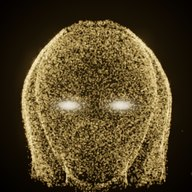
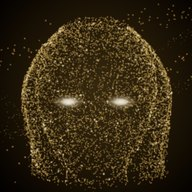
Particle face, more epic: fewer crisper dots, twinkling sparkles, lens flares on the eyes, orbiting gold dust and soft falling light

diff --git a/app/src/main/assets/www/index.html b/app/src/main/assets/www/index.html
@@ -258,6 +258,12 @@ function makeGlowTexture(size = 256) {
   const t = new THREE.CanvasTexture(c); t.colorSpace = THREE.SRGBColorSpace; return t;
 }
 const glowTex = makeGlowTexture();
+const flareTex = (() => { const c = document.createElement('canvas'); c.width = 256; c.height = 32; const g = c.getContext('2d');
+  const h = g.createLinearGradient(0, 0, 256, 0); h.addColorStop(0, 'rgba(255,200,120,0)'); h.addColorStop(0.5, 'rgba(255,240,210,1)'); h.addColorStop(1, 'rgba(255,200,120,0)');
+  g.fillStyle = h; g.fillRect(0, 15, 256, 2); return new THREE.CanvasTexture(c); })();
+const rayTex = (() => { const c = document.createElement('canvas'); c.width = 64; c.height = 64; const g = c.getContext('2d');   // soft on every side; the sprite stretches it tall
+  const v = g.createRadialGradient(32, 32, 0, 32, 32, 32); v.addColorStop(0, 'rgba(255,225,170,1)'); v.addColorStop(1, 'rgba(255,200,120,0)');
+  g.fillStyle = v; g.fillRect(0, 0, 64, 64); return new THREE.CanvasTexture(c); })();
 
 scene.add(new THREE.AmbientLight(0xffffff, 0.55));
 const keyLight = new THREE.DirectionalLight(0xfff2e0, 2.2); keyLight.position.set(3, 7, 6); scene.add(keyLight);
@@ -325,7 +331,7 @@ function disposeAvatar(model) {
     }
   });
 }
-let particleFaceMaterial = null;
+let particleFaceMaterial = null, particleFx = null;   // particleFx: the sparkles, orbiting dust and light streaks around the face
 function applyAvatarAlpha(a) {
   if (!avatarModel) return;
   const wantsAlpha = a < 0.995;
@@ -388,7 +394,7 @@ function makeGoldenParticleFace(model) {
   // a human head: fuller at the temples and cranium, slimming down to the jaw and chin
   const cx = head ? head.cx || 0 : 0, widen = y => { if (!head) return 1; const t = Math.min(1, Math.max(0, (y - head.neck) / (head.top - head.neck)));
     const k = Math.min(1, Math.max(0, (t - 0.12) / 0.5)); return 0.94 + 0.18 * k * k * (3 - 2 * k); };
-  const count = 28000, points = new Float32Array(count * 3);
+  const count = 9000, points = new Float32Array(count * 3);   // fewer, crisper dots: the face reads as light, not sand
   for (let i = 0; i < count; i++) {
     const target = Math.random() * totalArea;
     let lo = 0, hi = cumulative.length - 1;
@@ -402,7 +408,7 @@ function makeGoldenParticleFace(model) {
   const geo = new THREE.BufferGeometry();
   geo.setAttribute('position', new THREE.BufferAttribute(points, 3));
   particleFaceMaterial = new THREE.PointsMaterial({
-    color: 0xffd783, size: 0.018, map: glowTex, transparent: true, opacity: 1,   // applyAvatarAlpha fades it from this base
+    color: 0xffd783, size: 0.016, map: glowTex, transparent: true, opacity: 1,   // applyAvatarAlpha fades it from this base
     blending: THREE.AdditiveBlending, depthWrite: false, sizeAttenuation: true
   });
   const cloud = new THREE.Points(geo, particleFaceMaterial);
@@ -413,9 +419,38 @@ function makeGoldenParticleFace(model) {
     const eb = new THREE.Box3(); eyeMeshes.forEach(e => eb.expandByObject(e)); eb.applyMatrix4(invRoot);
     const c = eb.getCenter(new THREE.Vector3()), dx = (eb.max.x - eb.min.x) / 4 * widen(c.y) * 1.3, r = (eb.max.y - eb.min.y) * 1.1;   // set wide, like the reference
     for (const sx of [-1, 1]) {
+      const at = new THREE.Vector3(cx + (c.x - cx) + sx * dx, c.y, eb.max.z);
       const eye = new THREE.Sprite(new THREE.SpriteMaterial({ map: glowTex, color: 0xfff1d0, transparent: true, depthWrite: false, blending: THREE.AdditiveBlending }));
-      eye.position.set(cx + (c.x - cx) + sx * dx, c.y, eb.max.z); eye.scale.set(r * 1.7, r * 0.75, 1); model.add(eye);   // oval, like a human eye
+      eye.position.copy(at); eye.scale.set(r * 1.2, r * 0.55, 1); model.add(eye);   // oval, like a human eye
+      const flare = new THREE.Sprite(new THREE.SpriteMaterial({ map: flareTex, color: 0xffc66e, transparent: true, depthWrite: false, blending: THREE.AdditiveBlending }));
+      flare.position.copy(at); flare.scale.set(r * 2.0, r * 0.4, 1); model.add(flare);   // a thin lens flare across each eye
     }
+  }
+  if (head) {                                    // the epic part: sparkles on the face, orbiting gold dust, light falling through the dark
+    const span = head.top - head.neck, mid = new THREE.Vector3(cx, head.neck + span * 0.55, head.cz || 0), mat = (size, color) => new THREE.PointsMaterial({
+      color, size, map: glowTex, transparent: true, opacity: 1, blending: THREE.AdditiveBlending, depthWrite: false, sizeAttenuation: true });
+    const spark = [0, 1].map(() => { const n = 110, p = new Float32Array(n * 3);
+      for (let i = 0; i < n; i++) { const k = Math.floor(Math.random() * count) * 3; p[i*3] = points[k]; p[i*3+1] = points[k+1]; p[i*3+2] = points[k+2]; }
+      const g = new THREE.BufferGeometry(); g.setAttribute('position', new THREE.BufferAttribute(p, 3));
+      const o = new THREE.Points(g, mat(0.034, 0xfff0c8)); o.frustumCulled = false; model.add(o); return o; });
+    const orbit = new THREE.Group(); orbit.position.copy(mid); model.add(orbit);
+    for (const [tilt, rad, n] of [[0.25, 1.15, 900], [-0.35, 1.45, 700], [1.1, 1.3, 500]]) {
+      const p = new Float32Array(n * 3);
+      for (let i = 0; i < n; i++) {                // streams: thick in places, thin in others
+        const t = Math.random() * Math.PI * 2, rr = span * rad * (0.9 + 0.2 * Math.random()) * (1 + 0.08 * Math.sin(t * 3));
+        const x = Math.cos(t) * rr, z = Math.sin(t) * rr; p[i*3] = x; p[i*3+1] = z * Math.sin(tilt) + (Math.random() - 0.5) * span * 0.08; p[i*3+2] = z * Math.cos(tilt);
+      }
+      const g = new THREE.BufferGeometry(); g.setAttribute('position', new THREE.BufferAttribute(p, 3));
+      const ring = new THREE.Points(g, mat(0.014, 0xffcf7a)); ring.frustumCulled = false; ring.rotation.y = Math.random() * 6; orbit.add(ring);
+    }
+    const rays = [];
+    for (let i = 0; i < 7; i++) {
+      const ray = new THREE.Sprite(new THREE.SpriteMaterial({ map: rayTex, color: 0xffc66e, transparent: true, depthWrite: false, blending: THREE.AdditiveBlending }));
+      ray.userData.o = 0.15 + Math.random() * 0.3; ray.scale.set(span * 0.05, span * (0.25 + Math.random() * 0.3), 1);
+      ray.position.set(cx + (Math.random() < 0.5 ? -1 : 1) * span * (0.7 + Math.random() * 0.9), mid.y + (Math.random() * 3.2 - 1.6) * span, mid.z - Math.random() * span);
+      model.add(ray); rays.push(ray);
+    }
+    particleFx = { spark, orbit, rays, span, mid };
   }
   return cloud;
 }
@@ -459,6 +494,7 @@ function frameByHead(model) {
 }
 function doSwap(url) {
   if (avatarModel) { faceGroup.remove(avatarModel); disposeAvatar(avatarModel); avatarModel = null; }
+  particleFx = null;
   for (const k in mouthMorphs) delete mouthMorphs[k];
   window.__jvBlinkMorphs = [];
   jawBone = null; jawBoneRestQuat = null;
@@ -613,7 +649,13 @@ function applyColors() {
   particleMat.color.copy(currentCool).lerp(new THREE.Color(0xffffff), 0.25);
   bloomPass.strength = 0.10 + speakingAmount * 0.05 + (window.__jvSwapFx || 0) * 0.85;
   if (window.__jvSwapFx > 0) window.__jvSwapFx = Math.max(0, window.__jvSwapFx - 0.025);
-  if (particleFaceMaterial) { particleFaceMaterial.color.copy(currentCool); particleFaceMaterial.size = 0.018 * (1 + speakingAmount * 0.35); }
+  if (particleFaceMaterial) { particleFaceMaterial.color.copy(currentCool); particleFaceMaterial.size = 0.016 * (1 + speakingAmount * 0.35); }
+  if (particleFx && avatarModel) {
+    const t = performance.now() / 1000, f = particleFx;
+    f.spark.forEach((o, i) => { o.material.opacity = avatarAlpha * (0.55 + 0.45 * Math.sin(t * 1.7 + i * 3.1)); });
+    f.orbit.rotation.y = t * 0.12 * currentSpinMul * 2.5; f.orbit.rotation.z = 0.12 * Math.sin(t * 0.2);
+    for (const r of f.rays) { r.position.y -= f.span * 0.003; if (r.position.y < f.mid.y - f.span * 1.8) r.position.y = f.mid.y + f.span * 1.8; r.material.opacity = avatarAlpha * r.userData.o; }
+  }
 }
 const _tmpQ = new THREE.Quaternion(), _tmpE = new THREE.Euler();
 function driveLipSync(t, amt) {

diff --git a/pc_source/index.html b/pc_source/index.html
@@ -230,6 +230,12 @@ function makeGlowTexture(size = 256) {
   const t = new THREE.CanvasTexture(c); t.colorSpace = THREE.SRGBColorSpace; return t;
 }
 const glowTex = makeGlowTexture();
+const flareTex = (() => { const c = document.createElement('canvas'); c.width = 256; c.height = 32; const g = c.getContext('2d');
+  const h = g.createLinearGradient(0, 0, 256, 0); h.addColorStop(0, 'rgba(255,200,120,0)'); h.addColorStop(0.5, 'rgba(255,240,210,1)'); h.addColorStop(1, 'rgba(255,200,120,0)');
+  g.fillStyle = h; g.fillRect(0, 15, 256, 2); return new THREE.CanvasTexture(c); })();
+const rayTex = (() => { const c = document.createElement('canvas'); c.width = 64; c.height = 64; const g = c.getContext('2d');   // soft on every side; the sprite stretches it tall
+  const v = g.createRadialGradient(32, 32, 0, 32, 32, 32); v.addColorStop(0, 'rgba(255,225,170,1)'); v.addColorStop(1, 'rgba(255,200,120,0)');
+  g.fillStyle = v; g.fillRect(0, 0, 64, 64); return new THREE.CanvasTexture(c); })();
 
 scene.add(new THREE.AmbientLight(0xffffff, 0.55));
 const keyLight = new THREE.DirectionalLight(0xfff2e0, 2.2); keyLight.position.set(3, 7, 6); scene.add(keyLight);
@@ -297,7 +303,7 @@ function disposeAvatar(model) {
     }
   });
 }
-let particleFaceMaterial = null;
+let particleFaceMaterial = null, particleFx = null;   // particleFx: the sparkles, orbiting dust and light streaks around the face
 function applyAvatarAlpha(a) {
   if (!avatarModel) return;
   const wantsAlpha = a < 0.995;
@@ -360,7 +366,7 @@ function makeGoldenParticleFace(model) {
   // a human head: fuller at the temples and cranium, slimming down to the jaw and chin
   const cx = head ? head.cx || 0 : 0, widen = y => { if (!head) return 1; const t = Math.min(1, Math.max(0, (y - head.neck) / (head.top - head.neck)));
     const k = Math.min(1, Math.max(0, (t - 0.12) / 0.5)); return 0.94 + 0.18 * k * k * (3 - 2 * k); };
-  const count = 28000, points = new Float32Array(count * 3);
+  const count = 9000, points = new Float32Array(count * 3);   // fewer, crisper dots: the face reads as light, not sand
   for (let i = 0; i < count; i++) {
     const target = Math.random() * totalArea;
     let lo = 0, hi = cumulative.length - 1;
@@ -374,7 +380,7 @@ function makeGoldenParticleFace(model) {
   const geo = new THREE.BufferGeometry();
   geo.setAttribute('position', new THREE.BufferAttribute(points, 3));
   particleFaceMaterial = new THREE.PointsMaterial({
-    color: 0xffd783, size: 0.018, map: glowTex, transparent: true, opacity: 1,   // applyAvatarAlpha fades it from this base
+    color: 0xffd783, size: 0.016, map: glowTex, transparent: true, opacity: 1,   // applyAvatarAlpha fades it from this base
     blending: THREE.AdditiveBlending, depthWrite: false, sizeAttenuation: true
   });
   const cloud = new THREE.Points(geo, particleFaceMaterial);
@@ -385,15 +391,45 @@ function makeGoldenParticleFace(model) {
     const eb = new THREE.Box3(); eyeMeshes.forEach(e => eb.expandByObject(e)); eb.applyMatrix4(invRoot);
     const c = eb.getCenter(new THREE.Vector3()), dx = (eb.max.x - eb.min.x) / 4 * widen(c.y) * 1.3, r = (eb.max.y - eb.min.y) * 1.1;   // set wide, like the reference
     for (const sx of [-1, 1]) {
+      const at = new THREE.Vector3(cx + (c.x - cx) + sx * dx, c.y, eb.max.z);
       const eye = new THREE.Sprite(new THREE.SpriteMaterial({ map: glowTex, color: 0xfff1d0, transparent: true, depthWrite: false, blending: THREE.AdditiveBlending }));
-      eye.position.set(cx + (c.x - cx) + sx * dx, c.y, eb.max.z); eye.scale.set(r * 1.7, r * 0.75, 1); model.add(eye);   // oval, like a human eye
+      eye.position.copy(at); eye.scale.set(r * 1.2, r * 0.55, 1); model.add(eye);   // oval, like a human eye
+      const flare = new THREE.Sprite(new THREE.SpriteMaterial({ map: flareTex, color: 0xffc66e, transparent: true, depthWrite: false, blending: THREE.AdditiveBlending }));
+      flare.position.copy(at); flare.scale.set(r * 2.0, r * 0.4, 1); model.add(flare);   // a thin lens flare across each eye
     }
+  }
+  if (head) {                                    // the epic part: sparkles on the face, orbiting gold dust, light falling through the dark
+    const span = head.top - head.neck, mid = new THREE.Vector3(cx, head.neck + span * 0.55, head.cz || 0), mat = (size, color) => new THREE.PointsMaterial({
+      color, size, map: glowTex, transparent: true, opacity: 1, blending: THREE.AdditiveBlending, depthWrite: false, sizeAttenuation: true });
+    const spark = [0, 1].map(() => { const n = 110, p = new Float32Array(n * 3);
+      for (let i = 0; i < n; i++) { const k = Math.floor(Math.random() * count) * 3; p[i*3] = points[k]; p[i*3+1] = points[k+1]; p[i*3+2] = points[k+2]; }
+      const g = new THREE.BufferGeometry(); g.setAttribute('position', new THREE.BufferAttribute(p, 3));
+      const o = new THREE.Points(g, mat(0.034, 0xfff0c8)); o.frustumCulled = false; model.add(o); return o; });
+    const orbit = new THREE.Group(); orbit.position.copy(mid); model.add(orbit);
+    for (const [tilt, rad, n] of [[0.25, 1.15, 900], [-0.35, 1.45, 700], [1.1, 1.3, 500]]) {
+      const p = new Float32Array(n * 3);
+      for (let i = 0; i < n; i++) {                // streams: thick in places, thin in others
+        const t = Math.random() * Math.PI * 2, rr = span * rad * (0.9 + 0.2 * Math.random()) * (1 + 0.08 * Math.sin(t * 3));
+        const x = Math.cos(t) * rr, z = Math.sin(t) * rr; p[i*3] = x; p[i*3+1] = z * Math.sin(tilt) + (Math.random() - 0.5) * span * 0.08; p[i*3+2] = z * Math.cos(tilt);
+      }
+      const g = new THREE.BufferGeometry(); g.setAttribute('position', new THREE.BufferAttribute(p, 3));
+      const ring = new THREE.Points(g, mat(0.014, 0xffcf7a)); ring.frustumCulled = false; ring.rotation.y = Math.random() * 6; orbit.add(ring);
+    }
+    const rays = [];
+    for (let i = 0; i < 7; i++) {
+      const ray = new THREE.Sprite(new THREE.SpriteMaterial({ map: rayTex, color: 0xffc66e, transparent: true, depthWrite: false, blending: THREE.AdditiveBlending }));
+      ray.userData.o = 0.15 + Math.random() * 0.3; ray.scale.set(span * 0.05, span * (0.25 + Math.random() * 0.3), 1);
+      ray.position.set(cx + (Math.random() < 0.5 ? -1 : 1) * span * (0.7 + Math.random() * 0.9), mid.y + (Math.random() * 3.2 - 1.6) * span, mid.z - Math.random() * span);
+      model.add(ray); rays.push(ray);
+    }
+    particleFx = { spark, orbit, rays, span, mid };
   }
   return cloud;
 }
 
 function doSwap(url) {
   if (avatarModel) { faceGroup.remove(avatarModel); disposeAvatar(avatarModel); avatarModel = null; }
+  particleFx = null;
   for (const k in mouthMorphs) delete mouthMorphs[k];
   jawBone = null; jawBoneRestQuat = null;
   gidPlane.visible = true;
@@ -533,7 +569,13 @@ function applyColors() {
   headHalo.material.color.copy(currentCool);
   particleMat.color.copy(currentCool).lerp(new THREE.Color(0xffffff), 0.25);
   bloomPass.strength = 0.10 + speakingAmount * 0.05;
-  if (particleFaceMaterial) { particleFaceMaterial.color.copy(currentCool); particleFaceMaterial.size = 0.018 * (1 + speakingAmount * 0.35); }
+  if (particleFaceMaterial) { particleFaceMaterial.color.copy(currentCool); particleFaceMaterial.size = 0.016 * (1 + speakingAmount * 0.35); }
+  if (particleFx && avatarModel) {
+    const t = performance.now() / 1000, f = particleFx;
+    f.spark.forEach((o, i) => { o.material.opacity = avatarAlpha * (0.55 + 0.45 * Math.sin(t * 1.7 + i * 3.1)); });
+    f.orbit.rotation.y = t * 0.12 * currentSpinMul * 2.5; f.orbit.rotation.z = 0.12 * Math.sin(t * 0.2);
+    for (const r of f.rays) { r.position.y -= f.span * 0.003; if (r.position.y < f.mid.y - f.span * 1.8) r.position.y = f.mid.y + f.span * 1.8; r.material.opacity = avatarAlpha * r.userData.o; }
+  }
 }
 const _tmpQ = new THREE.Quaternion(), _tmpE = new THREE.Euler();
 function driveLipSync(t, amt) {
